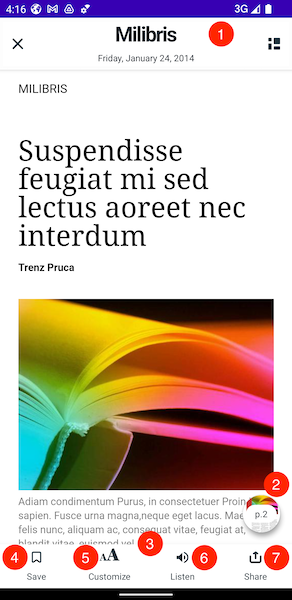
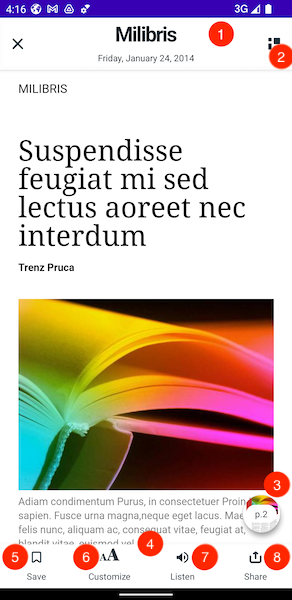
[V1.2.0] Update Reader Version

diff --git a/app/src/main/java/com/milibris/reader/sdk/sample/MainActivity.kt b/app/src/main/java/com/milibris/reader/sdk/sample/MainActivity.kt
@@ -38,6 +38,7 @@ class MainActivity : AppCompatActivity() {
         logo = R.drawable.milibris
         logoLight = R.drawable.milibris_light
         logoDark = R.drawable.milibris_dark
+        isSummaryEnabled = true
     }
     private lateinit var coverImageURL: String
     override fun onCreate(savedInstanceState: Bundle?) {

diff --git a/docs/config.md b/docs/config.md
@@ -40,36 +40,37 @@ The config for an instance of the article reader.
 | Badge | Name                                         | Type                                        | Default value                                                                                                                        | Description                                                                                  |
 |-------|----------------------------------------------|---------------------------------------------|--------------------------------------------------------------------------------------------------------------------------------------|----------------------------------------------------------------------------------------------|
 | 1     | navigationBar                                | [NavigationBarConfig](#navigationbarconfig) |                                                                                                                                      | The config for the the article reader navigation bar.                                        |
-| 2     | cor_fish_eye_background                      | Drawable                                    | icon                                                                                                                                 | The background color of the fisheye label.                                                   |
-| 2     | or_fish_eye_text_color                       | Color                                       | #15202B                                                                                                                              | The text color of the fisheye label.                                                         |
-| 2     | ORTiny                                       | Style                                       | TextSize 12                                                                                                                          | The style for the fisheye label.                                                             |
-| 3     | or_articles_bottom_button_background_light   | Color                                       | #FFFFFF                                                                                                                              | The light background color of the bottom bar.                                                |
-| 3     | or_articles_bottom_button_background_dark    | Color                                       | #1F1F1F                                                                                                                              | The dark background color of the bottom bar.                                                 |
-| 4     | ic_or_bookmark                               | Drawable                                    | icon                                                                                                                                 | The icon of bookmark function color of the bottom bar.                                       |
-| 4     | or_articles_bottom_button_tint_default_light | Color                                       | #1E323D                                                                                                                              | The default light tint of buttons in the bottom bar                                          |
-| 4     | or_articles_bottom_button_tint_default_dark  | Color                                       | #FFFFFF                                                                                                                              | The default dark tint of buttons in the bottom bar                                           |
-| 5     | ic_or_personalize                            | Drawable                                    | icon                                                                                                                                 | The icon of personalise function color of the bottom bar.                                    |
-| 6     | ic_or_listen                                 | Drawable                                    | icon                                                                                                                                 | The icon of text to speech function color of the bottom bar.                                 |
-| 6     | ic_or_mute                                   | Drawable                                    | icon                                                                                                                                 | The icon of text to speech mute function color of the bottom bar.                            |
-| 7     | ic_or_share                                  | Drawable                                    | icon                                                                                                                                 | The icon of share function color of the bottom bar.                                          |
-| 8     | OneReaderArticleRubric                       | Style                                       | textSize:12sp                                                                                                                        | The style of rubric inside the article (In the prime image or in the core).                  |
-| 9     | OneReaderArticleSurtitle                     | Style                                       | textSize:14sp                                                                                                                        | The style of surtitle inside the article (In the prime image or in the core).                |
-| 10    | OneReaderArticleTitle                        | Style                                       | textSize: Smartphone :36sp, Tablet :52sp                                                                                             | The style of Title inside the article (In the prime image or in the core).                   |
-| 11    | OneReaderArticleSubtitle                     | Style                                       | textSize:13sp                                                                                                                        | The style of subtitle inside the article (In the prime image or in the core).                |
-| 12    | OneReaderArticleReadingTime                  | Style                                       | textSize:16sp                                                                                                                        | The style of reading time and author inside the article (In the prime image or in the core). |
-| 13    | or_article_half_height_bg                    | color                                       | Color:gradient                                                                                                                       | The background of texts inside Full height and half Height in front of prime image.          |
-| 14    | OneReaderArticleParagraph                    | Style                                       | textSize:18sp<br/>or_article_paragraph_text_light:#15202B<br/>or_article_paragraph_text_dark:#FFFFFF                                 | The style of paragraph                                                                       |
-| 15    | OneReaderArticleNote                         | Style                                       | textSize:12sp<br/>or_article_paragraph_text_light:#15202B<br/>or_article_paragraph_text_dark:#FFFFFF                                 | The style of note.                                                                           |
-| 16    | or_article_next_article_label_dark           | Color                                       | #878787                                                                                                                              | The color of next label in next article block  in light mode.                                |
-| 16    | or_article_next_article_label_light          | Color                                       | #86949B                                                                                                                              | The color of next label in next article block  in dark mode.                                 |
-| 16    | or_article_next_article_title_light          | Color                                       | #15202B                                                                                                                              | The color of title in next article block  in light mode.                                     |
-| 16    | or_article_next_article_title_dark           | Color                                       | #FFFFFF                                                                                                                              | The color of title in next article block  in dark mode.                                      |
-| 16    | or_next_article_reading_time_color_light     | Color                                       | #86949B                                                                                                                              | The color of reading time in next article block in light mode.                               |
-| 16    | or_next_article_reading_time_color_dark      | Color                                       | #878787                                                                                                                              | The color of reading time in next article block in dark mode.                                |
-| 17    | or_article_section_bg_light                  | Color                                       | #F9F9F9                                                                                                                              | The light background color of section.                                                       |
-| 17    | or_article_section_bg_dark                   | Color                                       | #393939                                                                                                                              | The dark background color of section.                                                        |
-| 18    | OneReaderArticleInterTitle                   | Style                                       | textSize:22sp<br/>font: source_serif_pro_bold<br/>or_article_paragraph_text_light:#15202B<br/>or_article_paragraph_text_dark:#FFFFFF | The style of interTitle.                                                                     |
-| 19    | OneReaderArticleCaption                      | Style                                       | textSize:14sp<br/>or_article_image_caption_text_light:#86949B<br/>or_article_image_caption_text_dark:#86949B                         | The style of caption of image.                                                               |
+| 2     | isSummaryEnabled                             | Boolean                         | true                               | Enable or disable the summary |
+| 3     | cor_fish_eye_background                      | Drawable                                    | icon                                                                                                                                 | The background color of the fisheye label.                                                   |
+| 3     | or_fish_eye_text_color                       | Color                                       | #15202B                                                                                                                              | The text color of the fisheye label.                                                         |
+| 3     | ORTiny                                       | Style                                       | TextSize 12                                                                                                                          | The style for the fisheye label.                                                             |
+| 4     | or_articles_bottom_button_background_light   | Color                                       | #FFFFFF                                                                                                                              | The light background color of the bottom bar.                                                |
+| 4     | or_articles_bottom_button_background_dark    | Color                                       | #1F1F1F                                                                                                                              | The dark background color of the bottom bar.                                                 |
+| 5     | ic_or_bookmark                               | Drawable                                    | icon                                                                                                                                 | The icon of bookmark function color of the bottom bar.                                       |
+| 5     | or_articles_bottom_button_tint_default_light | Color                                       | #1E323D                                                                                                                              | The default light tint of buttons in the bottom bar                                          |
+| 5     | or_articles_bottom_button_tint_default_dark  | Color                                       | #FFFFFF                                                                                                                              | The default dark tint of buttons in the bottom bar                                           |
+| 6     | ic_or_personalize                            | Drawable                                    | icon                                                                                                                                 | The icon of personalise function color of the bottom bar.                                    |
+| 7     | ic_or_listen                                 | Drawable                                    | icon                                                                                                                                 | The icon of text to speech function color of the bottom bar.                                 |
+| 7     | ic_or_mute                                   | Drawable                                    | icon                                                                                                                                 | The icon of text to speech mute function color of the bottom bar.                            |
+| 8     | ic_or_share                                  | Drawable                                    | icon                                                                                                                                 | The icon of share function color of the bottom bar.                                          |
+| 9     | OneReaderArticleRubric                       | Style                                       | textSize:12sp                                                                                                                        | The style of rubric inside the article (In the prime image or in the core).                  |
+| 10    | OneReaderArticleSurtitle                     | Style                                       | textSize:14sp                                                                                                                        | The style of surtitle inside the article (In the prime image or in the core).                |
+| 11    | OneReaderArticleTitle                        | Style                                       | textSize: Smartphone :36sp, Tablet :52sp                                                                                             | The style of Title inside the article (In the prime image or in the core).                   |
+| 12    | OneReaderArticleSubtitle                     | Style                                       | textSize:13sp                                                                                                                        | The style of subtitle inside the article (In the prime image or in the core).                |
+| 13    | OneReaderArticleReadingTime                  | Style                                       | textSize:16sp                                                                                                                        | The style of reading time and author inside the article (In the prime image or in the core). |
+| 14    | or_article_half_height_bg                    | color                                       | Color:gradient                                                                                                                       | The background of texts inside Full height and half Height in front of prime image.          |
+| 15    | OneReaderArticleParagraph                    | Style                                       | textSize:18sp<br/>or_article_paragraph_text_light:#15202B<br/>or_article_paragraph_text_dark:#FFFFFF                                 | The style of paragraph                                                                       |
+| 16    | OneReaderArticleNote                         | Style                                       | textSize:12sp<br/>or_article_paragraph_text_light:#15202B<br/>or_article_paragraph_text_dark:#FFFFFF                                 | The style of note.                                                                           |
+| 17    | or_article_next_article_label_dark           | Color                                       | #878787                                                                                                                              | The color of next label in next article block  in light mode.                                |
+| 17    | or_article_next_article_label_light          | Color                                       | #86949B                                                                                                                              | The color of next label in next article block  in dark mode.                                 |
+| 17    | or_article_next_article_title_light          | Color                                       | #15202B                                                                                                                              | The color of title in next article block  in light mode.                                     |
+| 17    | or_article_next_article_title_dark           | Color                                       | #FFFFFF                                                                                                                              | The color of title in next article block  in dark mode.                                      |
+| 17    | or_next_article_reading_time_color_light     | Color                                       | #86949B                                                                                                                              | The color of reading time in next article block in light mode.                               |
+| 17    | or_next_article_reading_time_color_dark      | Color                                       | #878787                                                                                                                              | The color of reading time in next article block in dark mode.                                |
+| 18    | or_article_section_bg_light                  | Color                                       | #F9F9F9                                                                                                                              | The light background color of section.                                                       |
+| 18    | or_article_section_bg_dark                   | Color                                       | #393939                                                                                                                              | The dark background color of section.                                                        |
+| 19    | OneReaderArticleInterTitle                   | Style                                       | textSize:22sp<br/>font: source_serif_pro_bold<br/>or_article_paragraph_text_light:#15202B<br/>or_article_paragraph_text_dark:#FFFFFF | The style of interTitle.                                                                     |
+| 20    | OneReaderArticleCaption                      | Style                                       | textSize:14sp<br/>or_article_image_caption_text_light:#86949B<br/>or_article_image_caption_text_dark:#86949B                         | The style of caption of image.                                                               |
 
 ## ArticleSettingsConfig
 
@@ -149,6 +150,7 @@ The config for an instance of the reader.
 | 8     | or_flat_plan_selected_color                   | Color   | light: #536067 / dark: #B4B4B4     | The color of the border in the flatplan when selected.                                         |
 | 8     | or_flat_plan_selected_color                   | Color   | light: #536067 / dark: #B4B4B4     | The color of the text in the flatplan when selected.                                           |
 | 8     | or_flat_plan_text_color                       | Color   | light: #536067 / dark: #FFFFFF     | The color of the text in the flatplan when not selected.                                       |
+| 9     | isSummaryEnabled                              | Boolean | true                               | Enable or disable the summary |
 
 ## MiniSummaryConfig
 

diff --git a/README.md b/README.md
@@ -117,6 +117,7 @@ We are providing a ReaderSettings class where you can customize the reader as yo
     shareEnabled = true
     enableSummaryImages = true
     logo = R.drawable.milibris
+    isSummaryEnabled = true
 }  
 ```  
 

diff --git a/CHANGELOG.md b/CHANGELOG.md
@@ -1,5 +1,10 @@
 # MiLibrisReaderSDK Android changelog
 
+# 1.2.0
+
+## Features
+- Add an option to hide the summary
+
 # 1.1.1
 
 ## Improvements
